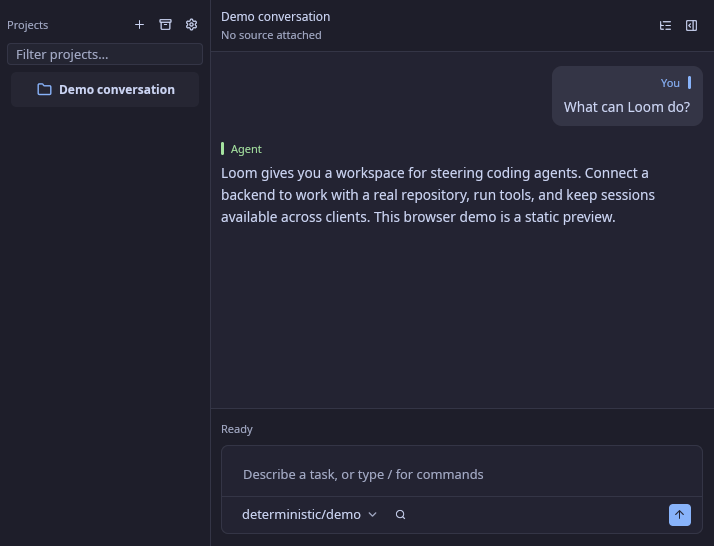
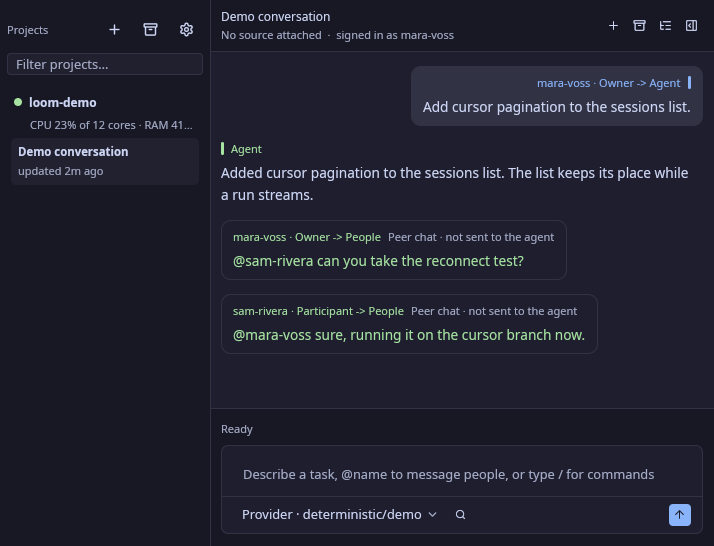
Add a shared sessions section and refresh the demo screenshot
The page described the clients and the backend but nothing about more
than one person working in a session. Add a section between those two:
sessions belong to the backend, people sign in with GitHub and appear on
the roster with a role and presence, every direction and approval is
attributed, and peer chat stays out of the model's context. It closes
with what each role can do.

The screenshot now shows a shared session instead of a single operator:
a direction from the session owner, the agent's reply, and a peer chat
exchange between two people using the @name mention syntax.

diff --git a/index.html b/index.html
@@ -52,7 +52,7 @@
         <a class="screenshot-link" href="assets/loom-ui-dark.png" aria-label="Enlarge the Loom browser client screenshot">
           <picture>
             <source class="light-shot" media="(prefers-color-scheme: light)" srcset="assets/loom-ui-light.png">
-            <img class="app-shot" src="assets/loom-ui-dark.png" width="714" height="546" fetchpriority="high" alt="The Loom browser client showing a conversation between the user and an agent, with the message composer below.">
+            <img class="app-shot" src="assets/loom-ui-dark.png" width="714" height="546" fetchpriority="high" alt="The Loom browser client showing a shared session: a task one person gave the agent, the agent's reply, and a peer chat exchange between two people, with the message composer below.">
           </picture>
           <span class="image-expand" aria-hidden="true">View full size <span>↗</span></span>
         </a>
@@ -83,6 +83,21 @@
       </div>
     </section>
 
+    <section class="wrap section shared" id="shared" aria-labelledby="shared-title">
+      <div class="shared-copy">
+        <p class="eyebrow">Shared sessions</p>
+        <h2 id="shared-title">One session,<br>as many people as it needs.</h2>
+        <p>A session belongs to the backend, not to the client that started it, so more than one person can work in the same conversation. People sign in with GitHub and appear on the session's roster with their role and presence.</p>
+        <p>Every message, direction, and approval is recorded against the person who gave it, and actions are ordered against the run revision they were decided on, so two people cannot both approve the same step.</p>
+        <p>Peer chat stays out of the model's context: <code>@people</code> messages everyone in the session and <code>@name</code> addresses one person, and neither wakes the agent.</p>
+      </div>
+      <ul class="role-list">
+        <li><strong>Owner</strong><span>Grants and roles, provider credentials, repository access, approval policy.</span></li>
+        <li><strong>Participant</strong><span>Peer chat, agent direction and answers, approvals, run control, terminals, tasks, edits.</span></li>
+        <li><strong>Observer</strong><span>Reads the session, its runs, roster, and revisions, and can request a higher role.</span></li>
+      </ul>
+    </section>
+
     <section class="wrap section get-started" aria-labelledby="get-started-title">
       <div>
         <p class="eyebrow">Try it. Build with it.</p>
@@ -105,7 +120,7 @@
   </footer>
   <dialog class="image-dialog" aria-label="Loom browser client screenshot, full size">
     <form method="dialog"><button class="close-dialog" aria-label="Close screenshot">Close <span aria-hidden="true">×</span></button></form>
-    <img class="dialog-shot" src="assets/loom-ui-dark.png" width="714" height="546" loading="lazy" alt="Full-size view of the Loom browser client with an open conversation.">
+    <img class="dialog-shot" src="assets/loom-ui-dark.png" width="714" height="546" loading="lazy" alt="Full-size view of the Loom browser client with a shared session open.">
   </dialog>
 </body>
 </html>

diff --git a/styles.css b/styles.css
@@ -125,6 +125,13 @@ section[id] { scroll-margin-top: 32px; }
 .backend-heading > span:last-child { font: 11px var(--mono); color: var(--muted); margin-left: auto; }
 .backend-parts { display: flex; justify-content: space-between; border-top: 1px solid var(--line); margin-top: 17px; padding-top: 14px; font: 11px var(--mono); color: var(--muted); }
 .diagram-caption { font-size: 12px; text-align: center; margin-top: 16px; }
+.shared { padding-block: 96px 0; display: grid; grid-template-columns: 1.1fr 1fr; align-items: center; gap: 76px; }
+.shared-copy > p:not(.eyebrow) { margin-top: 20px; font-size: 15px; max-width: 47ch; }
+.shared code { font: 12px var(--mono); color: var(--text); background: var(--surface); border: 1px solid var(--line); border-radius: 4px; padding: 1px 5px; }
+.role-list { list-style: none; margin: 0; padding: 0; display: grid; gap: 12px; }
+.role-list li { border: 1px solid var(--line); border-radius: 8px; background: var(--surface); padding: 18px 20px; }
+.role-list strong { display: block; font-size: 15px; font-weight: 550; }
+.role-list span { display: block; margin-top: 6px; font-size: 14px; line-height: 1.6; color: var(--muted); text-wrap: pretty; }
 .get-started { display: grid; grid-template-columns: 1.2fr 1fr; gap: 96px; align-items: center; }
 .get-started > div > p:not(.eyebrow) { max-width: 450px; margin-top: 20px; }
 .community { padding-left: 32px; border-left: 1px solid var(--line); }
@@ -149,6 +156,7 @@ section[id] { scroll-margin-top: 32px; }
   .hero-detail { max-width: 52ch; }
   .product-preview { margin-top: 24px; }
   .architecture-grid { gap: 38px; }
+  .shared { grid-template-columns: 1fr; gap: 40px; align-items: start; }
   .get-started { gap: 48px; }
 }
 @media (max-width: 700px) {
